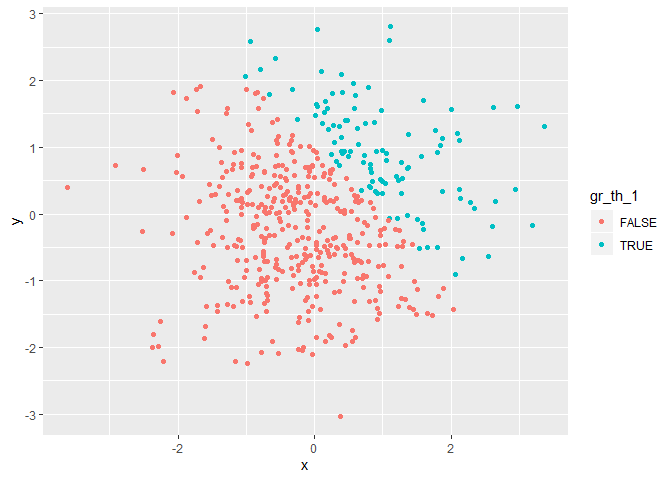
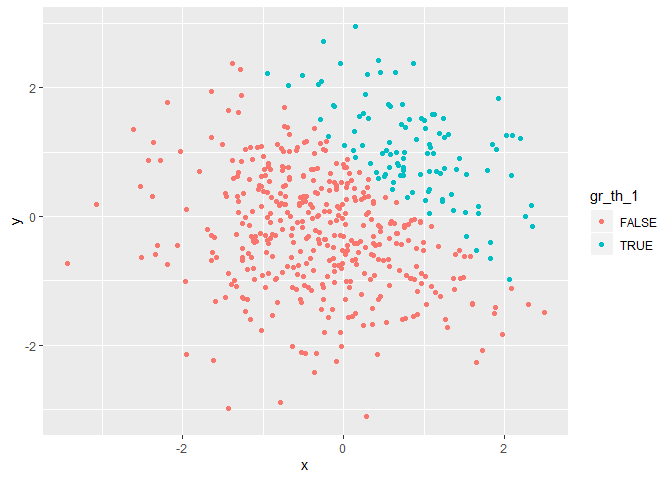
Final commit

diff --git a/p8105_hw1_jt3175.md b/p8105_hw1_jt3175.md
@@ -30,13 +30,13 @@ words.
 mean(pull(simple_df1, sample_norm))
 ```
 
-    ## [1] 0.1923939
+    ## [1] 0.08953345
 
 ``` r
 mean(pull(simple_df1, gr_th_0))
 ```
 
-    ## [1] 0.625
+    ## [1] 0.375
 
 ``` r
 mean(pull(simple_df1, vec_char))
@@ -97,34 +97,34 @@ rs_x_log_to_fac_to_num = log_to_fac_to_num * pull(simple_df1, sample_norm)
 log_to_num
 ```
 
-    ## [1] 1 1 0 0 1 1 0 1
+    ## [1] 1 0 0 0 1 0 1 0
 
 ``` r
 log_to_fac
 ```
 
-    ## [1] TRUE  TRUE  FALSE FALSE TRUE  TRUE  FALSE TRUE 
+    ## [1] TRUE  FALSE FALSE FALSE TRUE  FALSE TRUE  FALSE
     ## Levels: FALSE TRUE
 
 ``` r
 log_to_fac_to_num
 ```
 
-    ## [1] 2 2 1 1 2 2 1 2
+    ## [1] 2 1 1 1 2 1 2 1
 
 ``` r
 rs_x_log_to_num
 ```
 
-    ## [1] 0.7519683 0.6709469 0.0000000 0.0000000 0.5860786 1.0606840 0.0000000
-    ## [8] 0.6291660
+    ## [1] 0.4154770 0.0000000 0.0000000 0.0000000 2.2018925 0.0000000 0.3985496
+    ## [8] 0.0000000
 
 ``` r
 rs_x_log_to_fac_to_num
 ```
 
-    ## [1]  1.5039366  1.3418937 -0.5018773 -0.9613492  1.1721572  2.1213680
-    ## [7] -0.6964658  1.2583320
+    ## [1]  0.8309540 -0.1292094 -0.7552855 -0.1642445  4.4037851 -0.2735022
+    ## [7]  0.7970992 -0.9774100
 
 ``` r
 rs_x_log_to_fac
@@ -146,8 +146,8 @@ simple_df2 = tibble(
 
 The above dataframe contains 5 variables *(x, y, gr\_th\_1, log\_num,
 log\_fac)* of 500 observations each. X and y are both normally
-distributed variables. X has a mean of -0.0269514, median of -0.0677381,
-and standard deviation of 1.0249318. The variable *gr\_th\_1* represents
+distributed variables. X has a mean of -0.0865988, median of -0.1156611,
+and standard deviation of 1.0008718. The variable *gr\_th\_1* represents
 whether x + y is greater than 1. There are 105/500 (0.21) cases where
 x+y is greater than 1.
 
